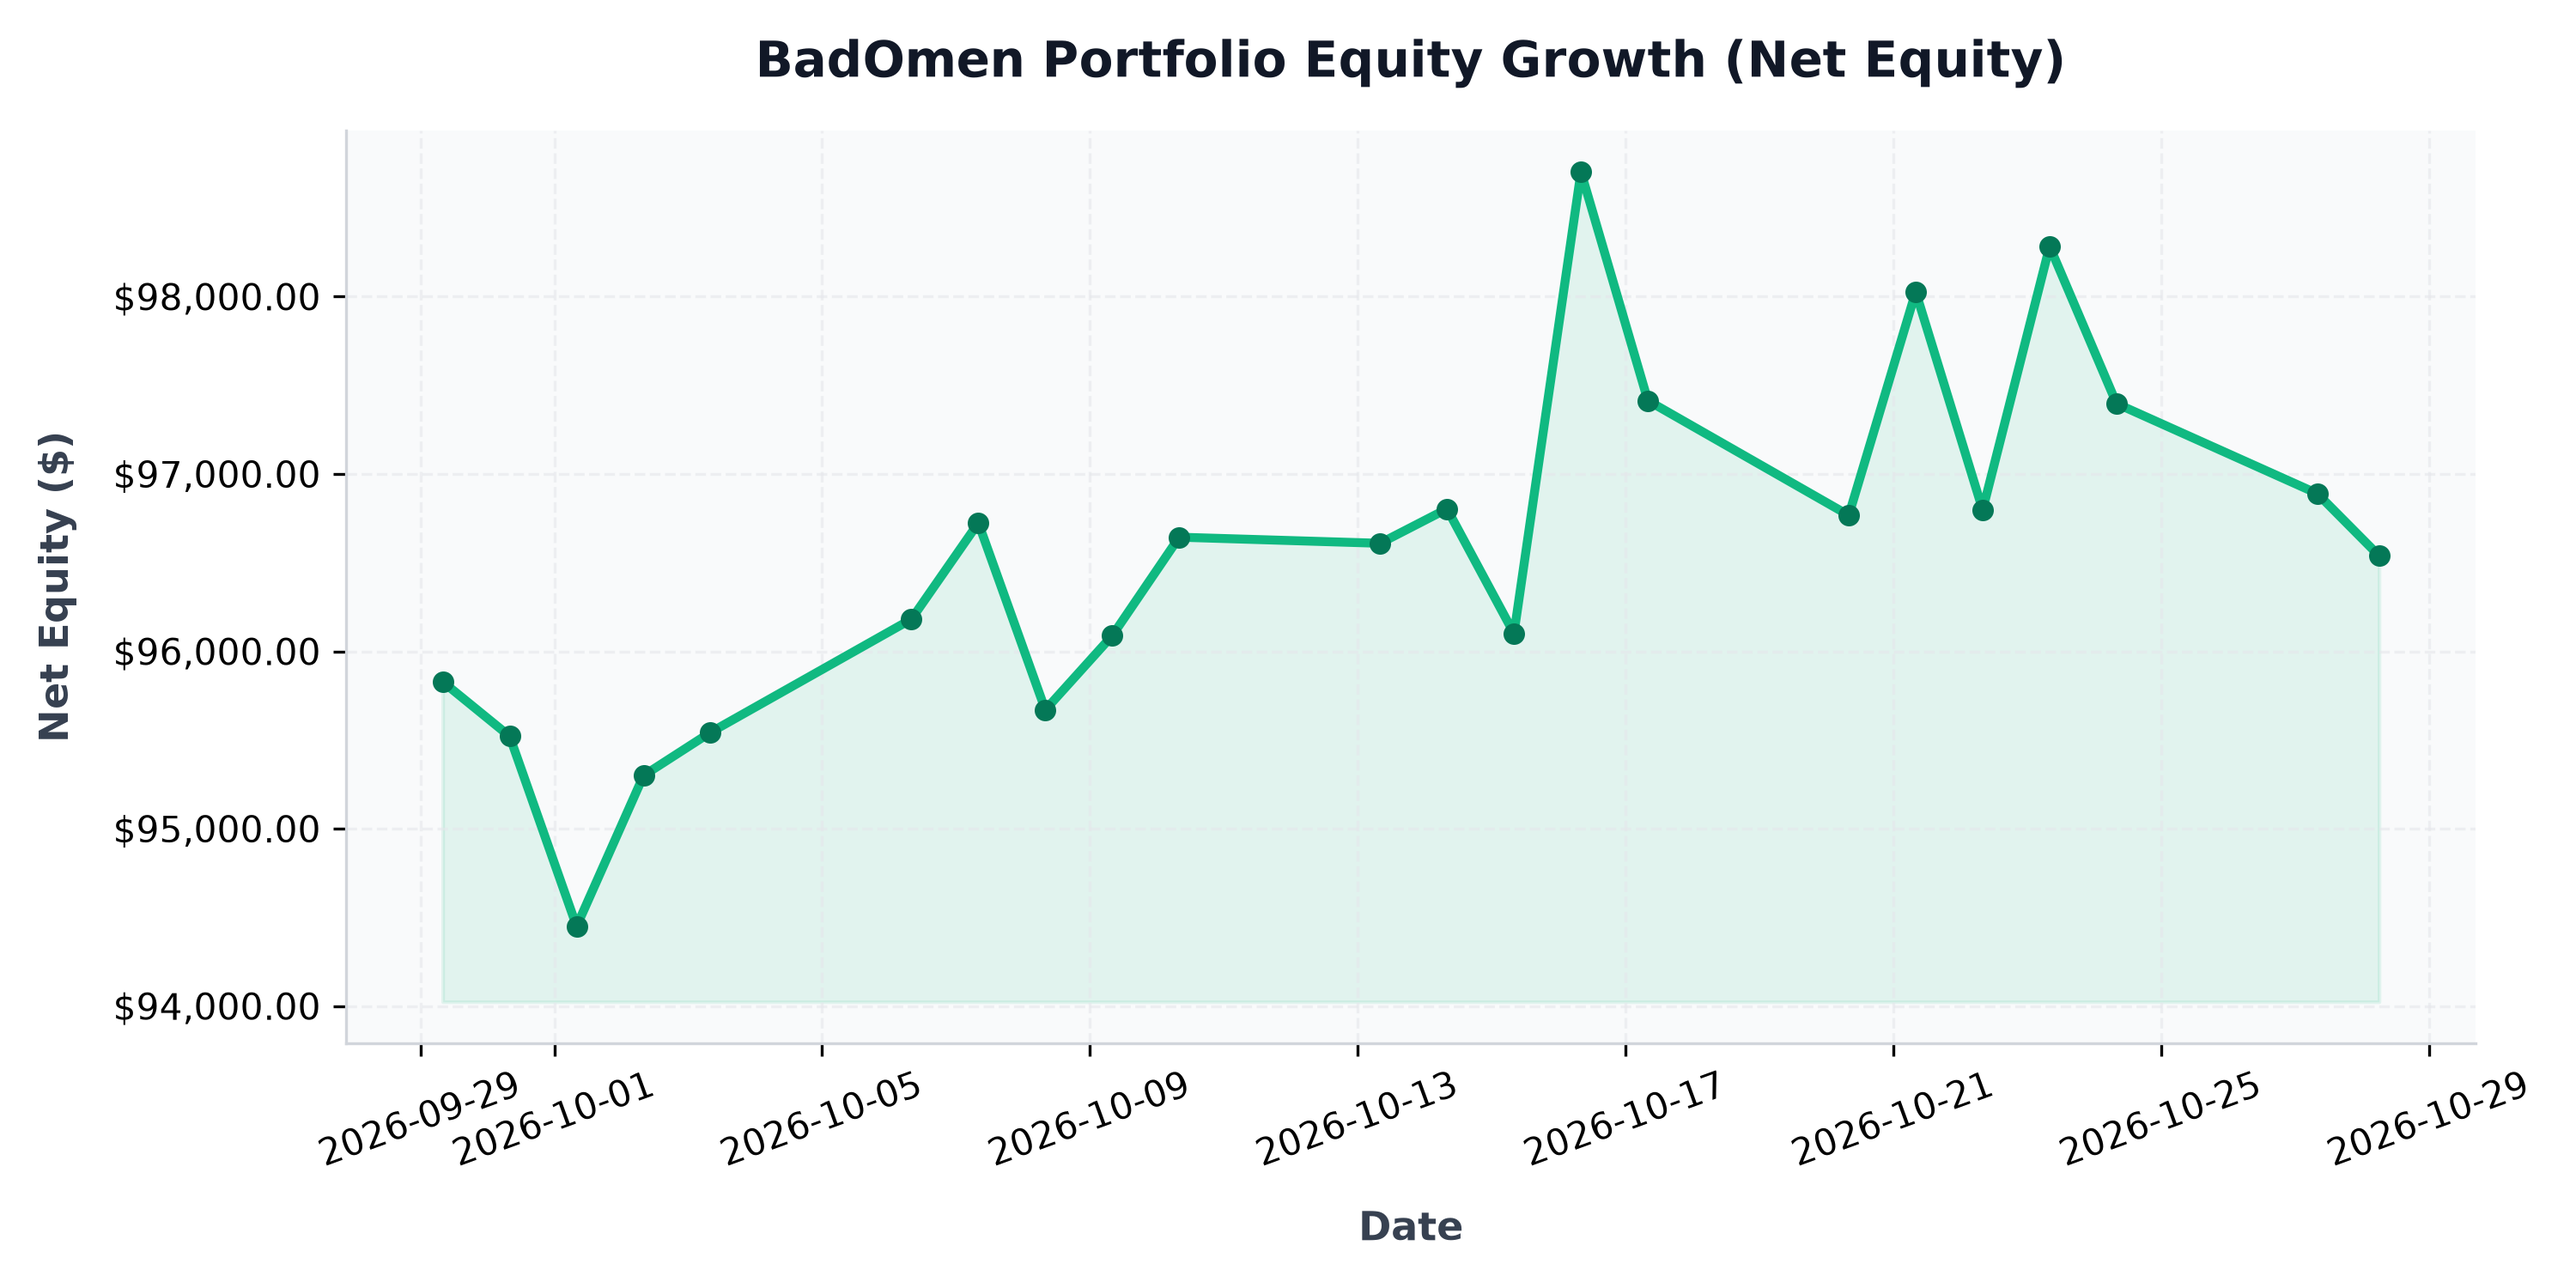
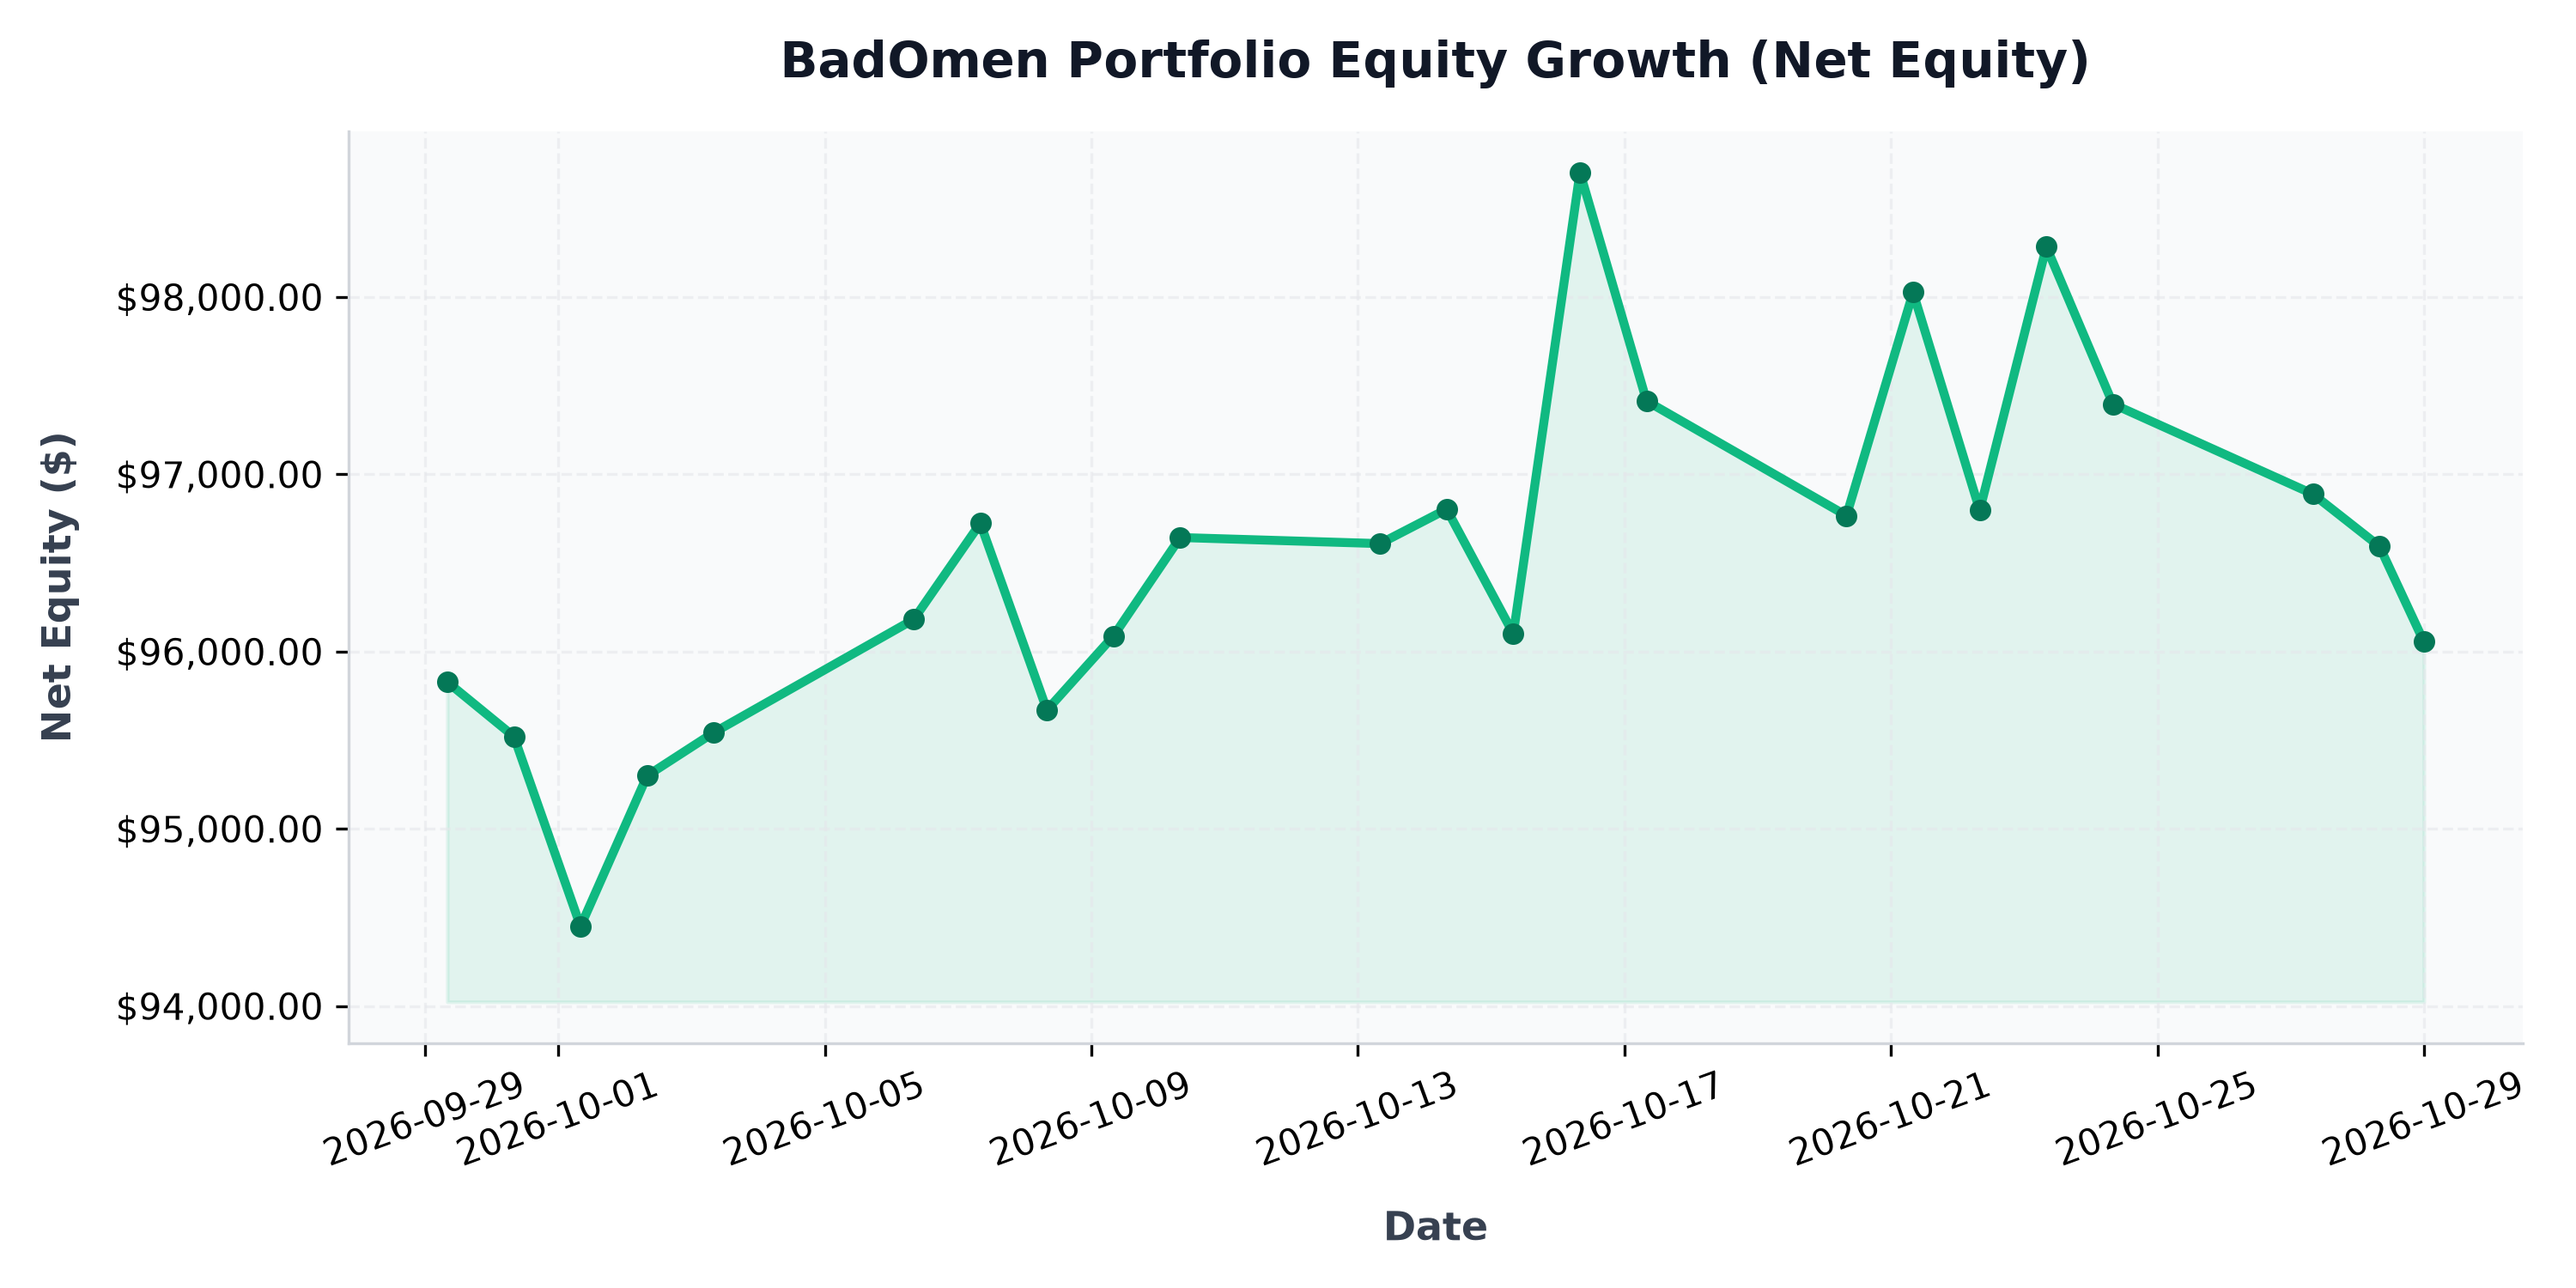
auto: daily portfolio status update - 2026-10-29 00:00:14

diff --git a/src/content/posts/portfolio-performance.md b/src/content/posts/portfolio-performance.md
@@ -1,6 +1,6 @@
 ---
 title: "BadOmen Algorithmic Portfolio Performance & PnL Report"
-pubDatetime: 2026-10-28T06:05:13.150614+08:00
+pubDatetime: 2026-10-29T00:00:14.620869+08:00
 description: "Live performance metrics, active holdings, and historic equity curve for the BadOmen automated paper trading portfolio."
 featured: true
 draft: false
@@ -16,11 +16,11 @@ Welcome to the live performance dashboard for **BadOmen**, our automated algorit
 ## 📊 Portfolio Summary
 | Performance Metric | Value | description |
 | :--- | :--- | :--- |
-| **Net Portfolio Equity** | **$96,538.93** | Total current liquidation value of cash and stock holdings |
-| **Total Unrealized P&L** | 🔴 **$-4,557.96** (-4.51%) | Total return of current open holdings |
+| **Net Portfolio Equity** | **$96,055.74** | Total current liquidation value of cash and stock holdings |
+| **Total Unrealized P&L** | 🔴 **$-5,031.15** (-4.98%) | Total return of current open holdings |
 | **Cash Balance** | $24,269.00 | Idle reserve currency available for limit orders |
-| **Buying Power** | $299,431.79 | Margin-backed buying power for entry allocations |
-| **Report Updated** | `2026-10-28 06:05:13 (SGT)` | Timestamp of daily execution and sync run |
+| **Buying Power** | $298,078.87 | Margin-backed buying power for entry allocations |
+| **Report Updated** | `2026-10-29 00:00:14 (SGT)` | Timestamp of daily execution and sync run |
 
 ## 📈 Net Equity Growth Curve
 The chart below illustrates the historical performance of the account starting from our baseline capital funding of $100,000.00.
@@ -35,35 +35,35 @@ The chart below illustrates the exposure of our currently held active positions 
 ## 💼 Current Position Holdings
 | Ticker | Industry | Shares Owned | Average Entry Cost | Current Price | Unrealized P&L | Return (%) |
 | :--- | :--- | :--- | :--- | :--- | :--- | :--- |
-| **AN** | Auto & Truck Dealerships | 5 | $188.51 | $164.81 | 🔴 $-118.49 | -12.57% |
-| **AVGO** | Semiconductors | 1 | $385.71 | $341.08 | 🔴 $-44.63 | -11.57% |
-| **BIRK** | Footwear & Accessories | 407 | $37.32 | $32.26 | 🔴 $-2,058.49 | -13.55% |
-| **BLBD** | Farm & Heavy Construction Machinery | 231 | $65.52 | $56.82 | 🔴 $-2,008.77 | -13.27% |
-| **BVN** | Other Precious Metals & Mining | 32 | $31.88 | $28.74 | 🔴 $-100.32 | -9.84% |
-| **CELH** | Beverages - Non-Alcoholic | 33 | $29.71 | $27.75 | 🔴 $-64.77 | -6.61% |
-| **CPRI** | Luxury Goods | 1042 | $14.55 | $15.39 | 🟢 +$873.40 | +5.76% |
-| **DUOL** | Software - Application | 14 | $131.04 | $141.01 | 🟢 +$139.52 | +7.61% |
-| **FIS** | Information Technology Services | 23 | $41.79 | $35.58 | 🔴 $-142.84 | -14.86% |
-| **GDDY** | Software - Infrastructure | 6 | $76.21 | $106.21 | 🟢 +$180.00 | +39.37% |
-| **GDS** | Information Technology Services | 30 | $32.77 | $22.81 | 🔴 $-298.80 | -30.39% |
-| **GGAL** | Banks - Regional | 17 | $56.04 | $35.14 | 🔴 $-355.29 | -37.29% |
-| **GOOGL** | Internet Content & Information | 3 | $319.44 | $321.84 | 🟢 +$7.20 | +0.75% |
-| **GPI** | Auto & Truck Dealerships | 3 | $316.15 | $256.00 | 🔴 $-180.45 | -19.03% |
-| **HUBS** | Software - Application | 8 | $221.18 | $251.79 | 🟢 +$244.87 | +13.84% |
-| **ITRI** | Scientific & Technical Instruments | 12 | $81.80 | $94.00 | 🟢 +$146.40 | +14.91% |
-| **KBR** | Engineering & Construction | 27 | $36.23 | $40.23 | 🟢 +$107.92 | +11.03% |
-| **NESR** | Oil & Gas Equipment & Services | 34 | $28.74 | $21.14 | 🔴 $-258.49 | -26.45% |
-| **NU** | Banks - Regional | 57 | $11.60 | $12.45 | 🟢 +$48.53 | +7.34% |
-| **ON** | Semiconductors | 10 | $90.45 | $76.90 | 🔴 $-135.55 | -14.99% |
-| **ORCL** | Software - Infrastructure | 5 | $181.95 | $130.81 | 🔴 $-255.70 | -28.11% |
-| **PATH** | Software - Infrastructure | 38 | $10.25 | $14.01 | 🟢 +$142.88 | +36.68% |
-| **PYPL** | Credit Services | 17 | $56.05 | $56.00 | 🔴 $-0.85 | -0.09% |
-| **QCOM** | Semiconductors | 15 | $193.68 | $184.11 | 🔴 $-143.62 | -4.94% |
-| **SMCI** | Computer Hardware | 22 | $29.25 | $35.07 | 🟢 +$128.04 | +19.90% |
-| **SRE** | Utilities - Diversified | 57 | $84.75 | $85.01 | 🟢 +$14.68 | +0.30% |
-| **T** | Telecom Services | 47 | $20.85 | $20.97 | 🟢 +$5.63 | +0.57% |
-| **WEN** | Restaurants | 257 | $8.02 | $6.14 | 🔴 $-484.12 | -23.48% |
-| **ZG** | Internet Content & Information | 31 | $31.35 | $33.10 | 🟢 +$54.15 | +5.57% |
+| **AN** | Auto & Truck Dealerships | 5 | $188.51 | $163.07 | 🔴 $-127.17 | -13.49% |
+| **AVGO** | Semiconductors | 1 | $385.71 | $346.45 | 🔴 $-39.26 | -10.18% |
+| **BIRK** | Footwear & Accessories | 407 | $37.32 | $31.63 | 🔴 $-2,314.90 | -15.24% |
+| **BLBD** | Farm & Heavy Construction Machinery | 231 | $65.52 | $56.51 | 🔴 $-2,080.38 | -13.75% |
+| **BVN** | Other Precious Metals & Mining | 32 | $31.88 | $28.25 | 🔴 $-116.00 | -11.37% |
+| **CELH** | Beverages - Non-Alcoholic | 33 | $29.71 | $27.97 | 🔴 $-57.51 | -5.87% |
+| **CPRI** | Luxury Goods | 1042 | $14.55 | $15.22 | 🟢 +$696.26 | +4.59% |
+| **DUOL** | Software - Application | 14 | $131.04 | $136.31 | 🟢 +$73.65 | +4.01% |
+| **FIS** | Information Technology Services | 23 | $41.79 | $35.66 | 🔴 $-140.88 | -14.66% |
+| **GDDY** | Software - Infrastructure | 6 | $76.21 | $105.93 | 🟢 +$178.32 | +39.00% |
+| **GDS** | Information Technology Services | 30 | $32.77 | $23.43 | 🔴 $-280.05 | -28.49% |
+| **GGAL** | Banks - Regional | 17 | $56.04 | $34.39 | 🔴 $-368.04 | -38.63% |
+| **GOOGL** | Internet Content & Information | 3 | $319.44 | $324.18 | 🟢 +$14.21 | +1.48% |
+| **GPI** | Auto & Truck Dealerships | 3 | $316.15 | $247.20 | 🔴 $-206.85 | -21.81% |
+| **HUBS** | Software - Application | 8 | $221.18 | $247.93 | 🟢 +$213.99 | +12.09% |
+| **ITRI** | Scientific & Technical Instruments | 12 | $81.80 | $91.39 | 🟢 +$115.08 | +11.72% |
+| **KBR** | Engineering & Construction | 27 | $36.23 | $40.42 | 🟢 +$113.18 | +11.57% |
+| **NESR** | Oil & Gas Equipment & Services | 34 | $28.74 | $21.86 | 🔴 $-234.09 | -23.96% |
+| **NU** | Banks - Regional | 57 | $11.60 | $12.05 | 🟢 +$25.73 | +3.89% |
+| **ON** | Semiconductors | 10 | $90.45 | $74.83 | 🔴 $-156.25 | -17.27% |
+| **ORCL** | Software - Infrastructure | 5 | $181.95 | $130.89 | 🔴 $-255.30 | -28.06% |
+| **PATH** | Software - Infrastructure | 38 | $10.25 | $14.10 | 🟢 +$146.11 | +37.51% |
+| **PYPL** | Credit Services | 17 | $56.05 | $55.87 | 🔴 $-3.15 | -0.33% |
+| **QCOM** | Semiconductors | 15 | $193.68 | $181.88 | 🔴 $-177.15 | -6.10% |
+| **SMCI** | Computer Hardware | 22 | $29.25 | $34.80 | 🟢 +$121.99 | +18.96% |
+| **SRE** | Utilities - Diversified | 57 | $84.75 | $85.25 | 🟢 +$28.36 | +0.59% |
+| **T** | Telecom Services | 47 | $20.85 | $20.94 | 🟢 +$4.23 | +0.43% |
+| **WEN** | Restaurants | 257 | $8.02 | $7.09 | 🔴 $-238.68 | -11.58% |
+| **ZG** | Internet Content & Information | 31 | $31.35 | $32.43 | 🟢 +$33.38 | +3.43% |
 
 ## 🔴 Recent Realized Trades
 | Ticker | Shares Sold | Entry Price | Exit Price | Strategy Trigger | Realized Return | Exit Date |
